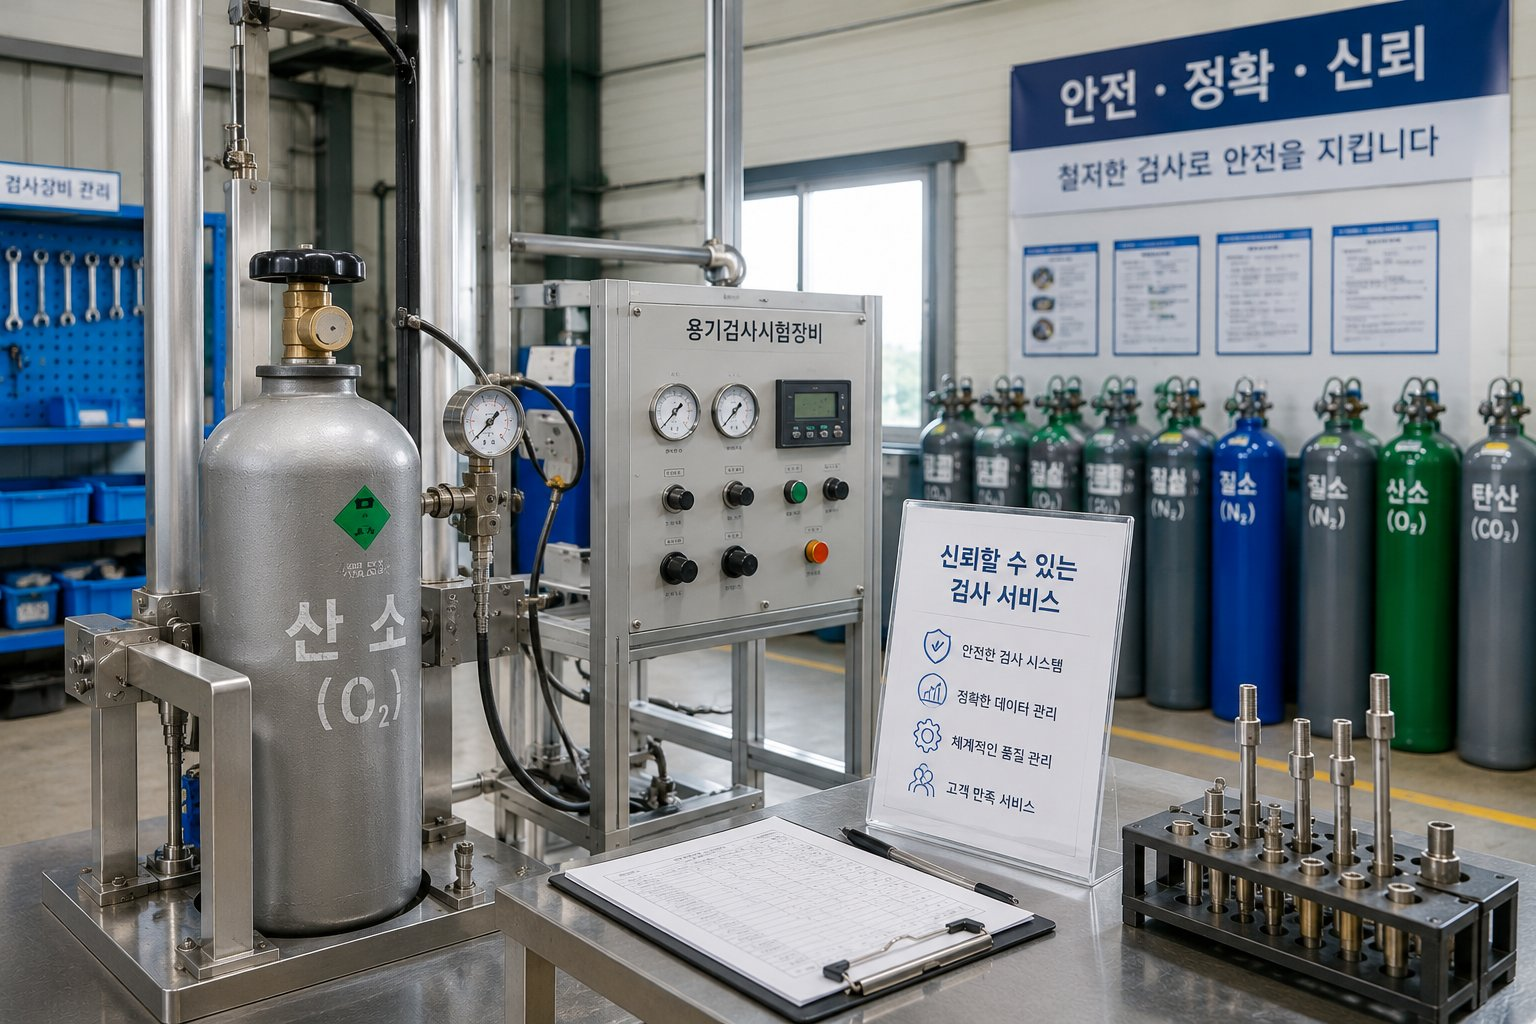
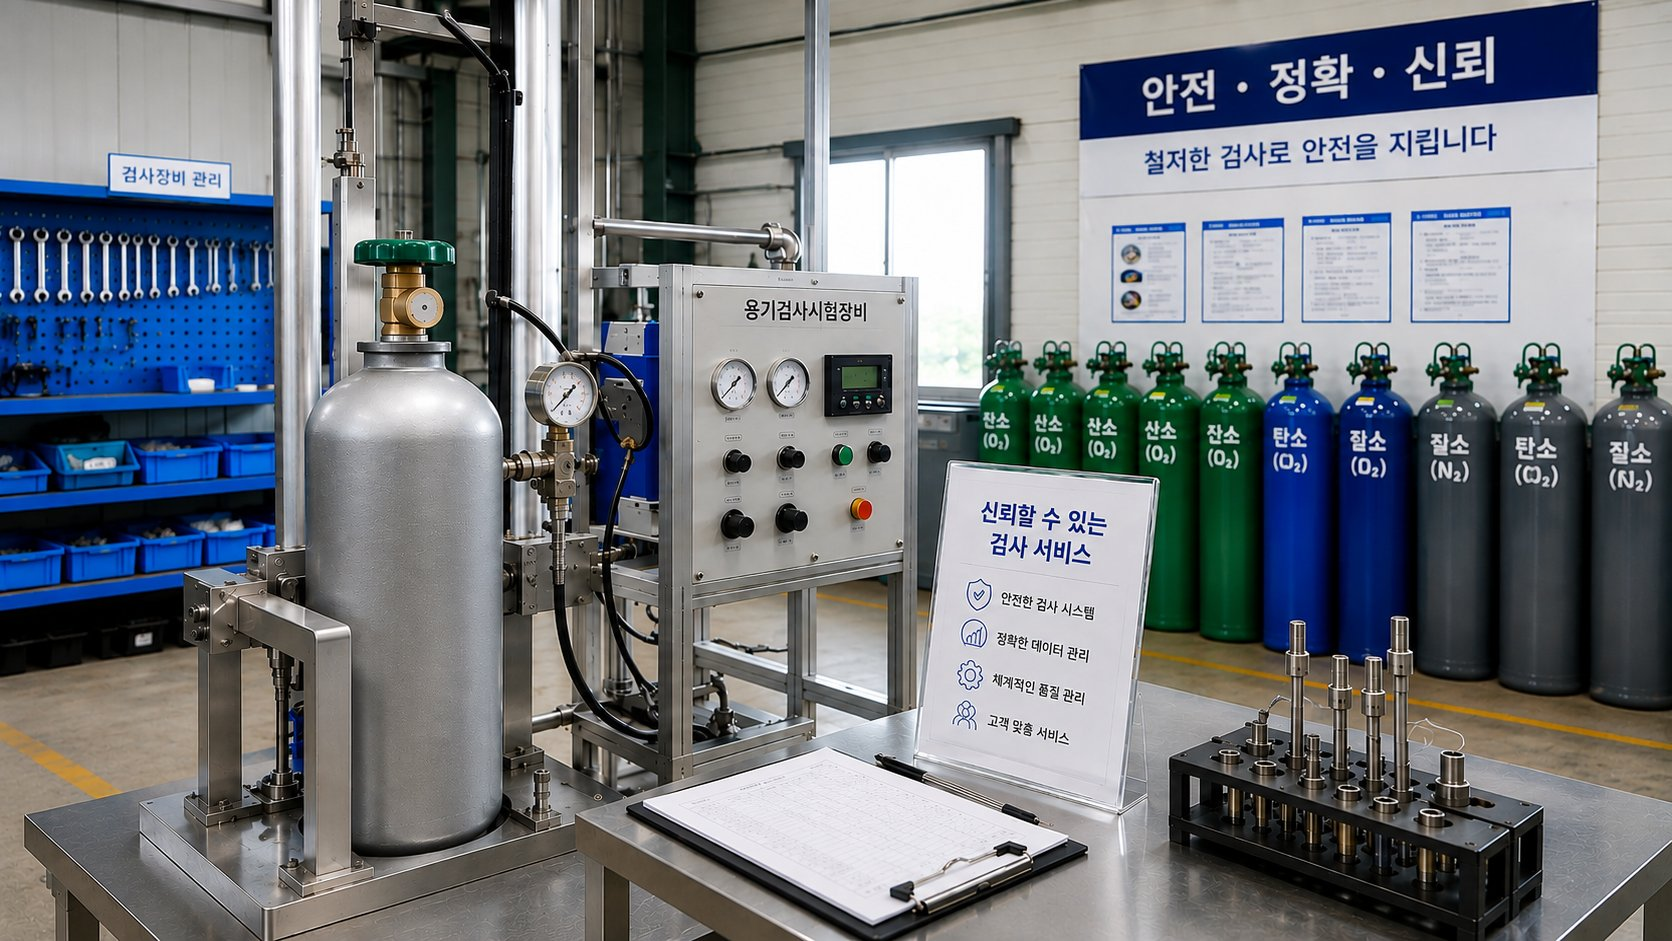
용기검사 신뢰할 수 있는 검사 서비스 사진을 넓은(16:9) 검사시험장비 사진으로 교체. 캐시버스트 bump(b)

diff --git a/products-supply.html b/products-supply.html
@@ -303,7 +303,7 @@
               <div class="capcard__tx"><b>고객맞춤형 솔루션</b></div>
             </li>
           </ul>
-          <div class="capsplit__media"><img src="assets/images/site/busung-service.jpg?v=20260830" alt="㈜부성테크니컬 용기검사 시험장비 및 검사 서비스" loading="lazy"></div>
+          <div class="capsplit__media"><img src="assets/images/site/busung-service.jpg?v=20260830b" alt="㈜부성테크니컬 용기검사 시험장비 및 검사 서비스" loading="lazy"></div>
         </div>
         <div class="section__foot"><a class="btn btn--primary" href="support.html#contact">용기검사 문의하기 →</a></div>
       </div>
